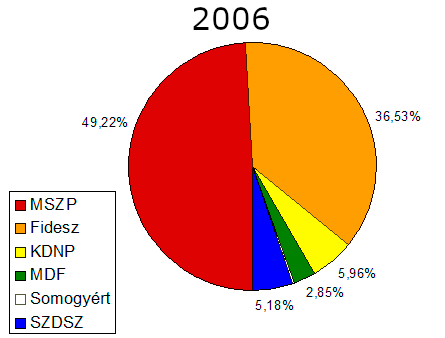
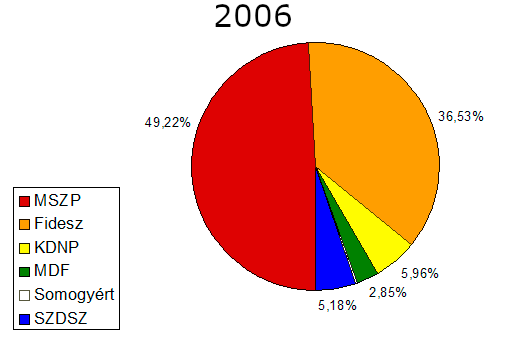
fura meretek kijavitasa

Changed region(s): [[0.1753, 0.1183, 0.964, 0.9172], [0.0, 0.5621, 0.2629, 1.0], [0.409, 0.0, 0.6135, 0.0888]]

diff --git a/Magyar/teljesitmenyek.html b/Magyar/teljesitmenyek.html
@@ -73,7 +73,7 @@
         
                                                     </div>
                                                 </div>
-                                                <div class="col-lg-8"><div>Orbán Viktor első kormánya, amely 1998 és 2002 között volt hivatalban, fontos időszak volt Magyarország modern történelmében. A kormányzati prioritások között gazdasági reformok és infrastrukturális fejlesztések szerepeltek, amelyek hozzájárultak az ország fejlődéséhez.</div></div>
+                                                <div class="col-lg-8"><div>Orbán Viktor első kormánya, amit a szavazatok 29,48%-ának megnyerésével alapított, amely 1998 és 2002 között volt hivatalban, fontos időszak volt Magyarország modern történelmében. A kormányzati prioritások között gazdasági reformok és infrastrukturális fejlesztések szerepeltek, amelyek hozzájárultak az ország fejlődéséhez.</div></div>
                                             </div>
                                         </div>
                                     </div>
